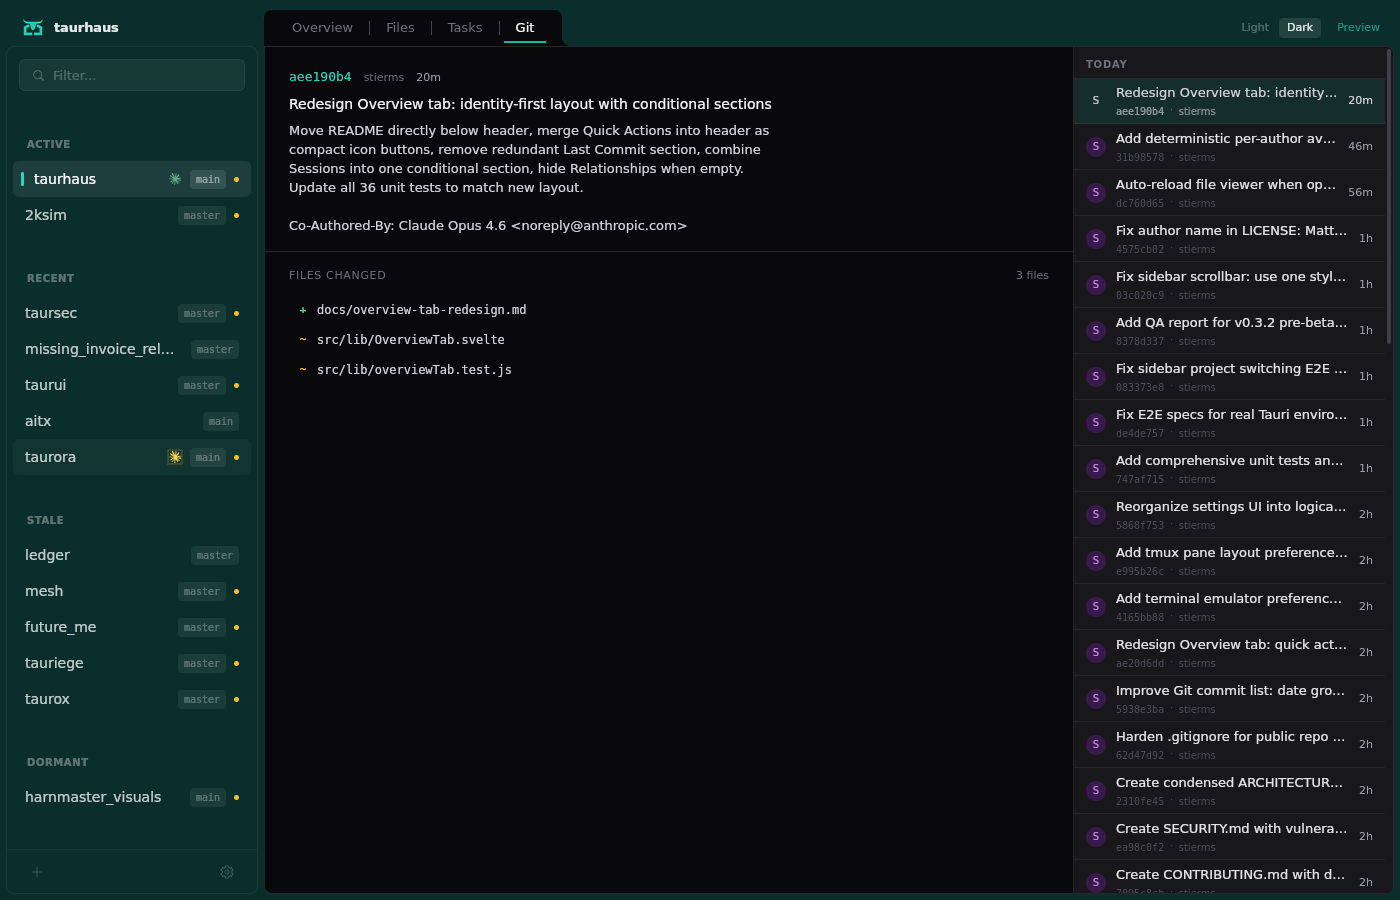
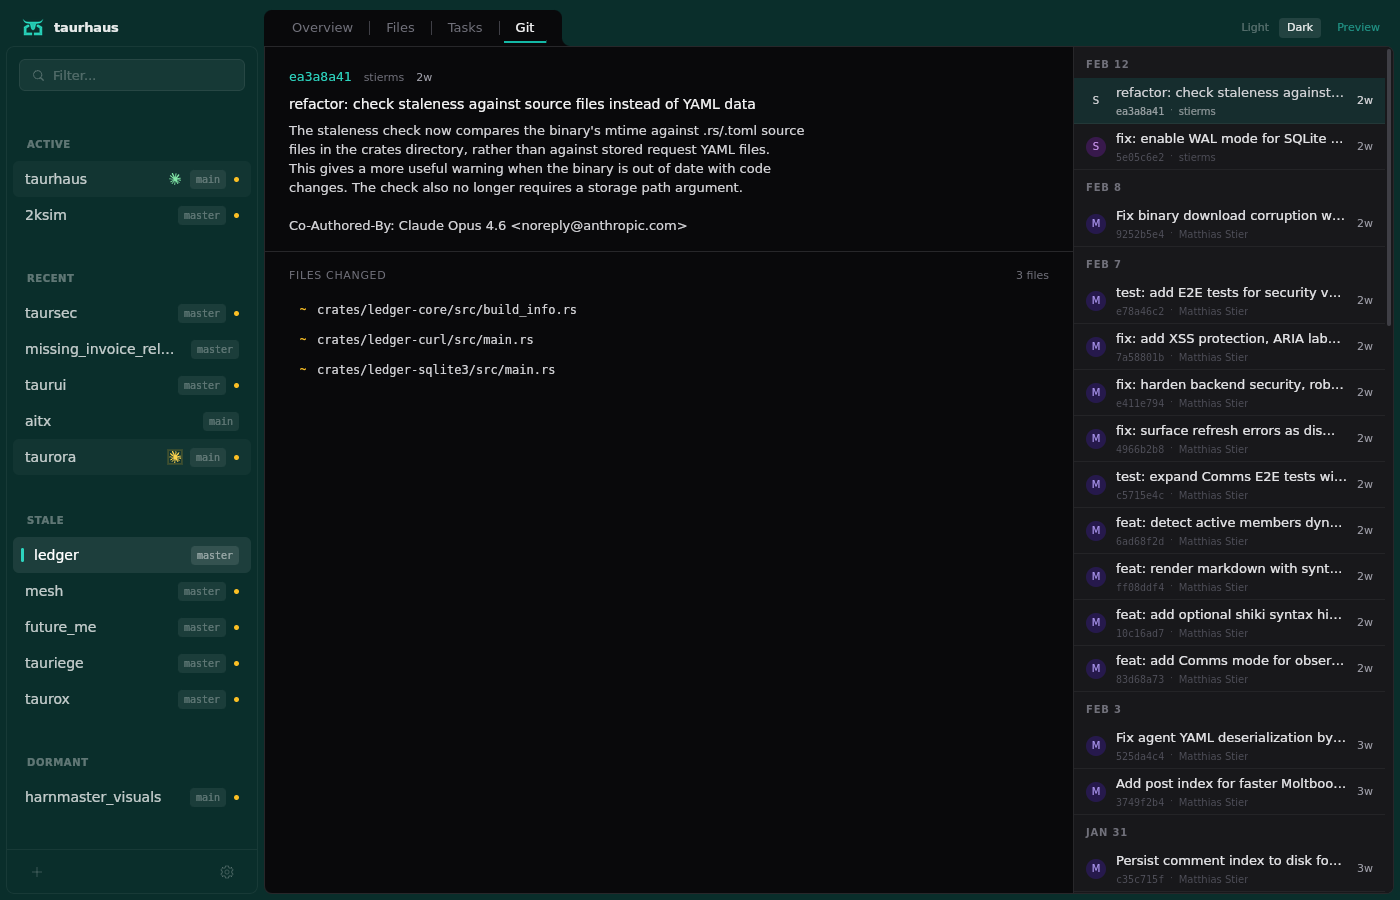
Switch README hero screenshot to ledger project to avoid self-reference
The taurhaus overview was showing its own README with old screenshots,
creating confusing recursion. Now shows ledger project which has a clean,
representative README. Fixed WebKit getText() issue in E2E spec by using
browser.execute() for textContent matching.

diff --git a/e2e/specs/readme-screenshots.js b/e2e/specs/readme-screenshots.js
@@ -32,7 +32,21 @@ describe('README Screenshots', () => {
     await browser.pause(2_000)
   })
 
-  it('hero — Overview tab', async () => {
+  it('hero — Overview tab (ledger project)', async () => {
+    // Navigate to "ledger" project for a clean README that isn't self-referential
+    // Use JS textContent because WebKit getText() doesn't return full text on truncated elements
+    const sidebarItems = await $$('[data-testid="project-item"]')
+    for (const item of sidebarItems) {
+      const text = await browser.execute((el) => el.textContent, item)
+      if (text && text.toLowerCase().includes('ledger')) {
+        await item.scrollIntoView()
+        await browser.pause(300)
+        await item.click()
+        await browser.pause(2_000)
+        break
+      }
+    }
+
     const overviewTab = await $('button=Overview')
     await overviewTab.click()
     await browser.pause(1_500)
